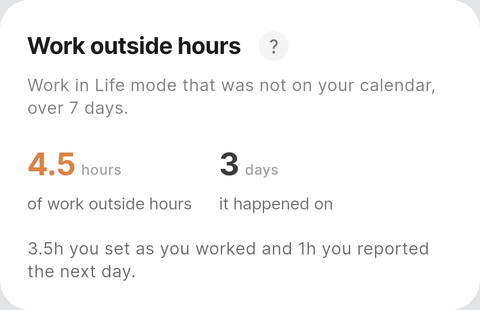
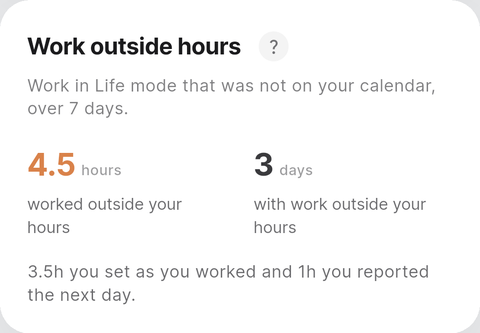
tutorial_outside_work_labels

diff --git a/tutorial/index.html b/tutorial/index.html
@@ -1615,7 +1615,7 @@
       </p>
     </div>
     <figure>
-      <img src="img/insights-outside-work.png" alt="The Work outside hours panel in Insights: 4.5 hours on 3 days, 3.5 hours set as you worked and 1 hour reported the next day" onerror="shotMissing(this)">
+      <img src="img/insights-outside-work.png" alt="The Work outside hours panel in Insights: 4.5 hours worked outside your hours, 3 days with work outside your hours, 3.5 hours set as you worked and 1 hour reported the next day" onerror="shotMissing(this)">
       <figcaption>Insights · work outside hours</figcaption>
     </figure>
   </div>
